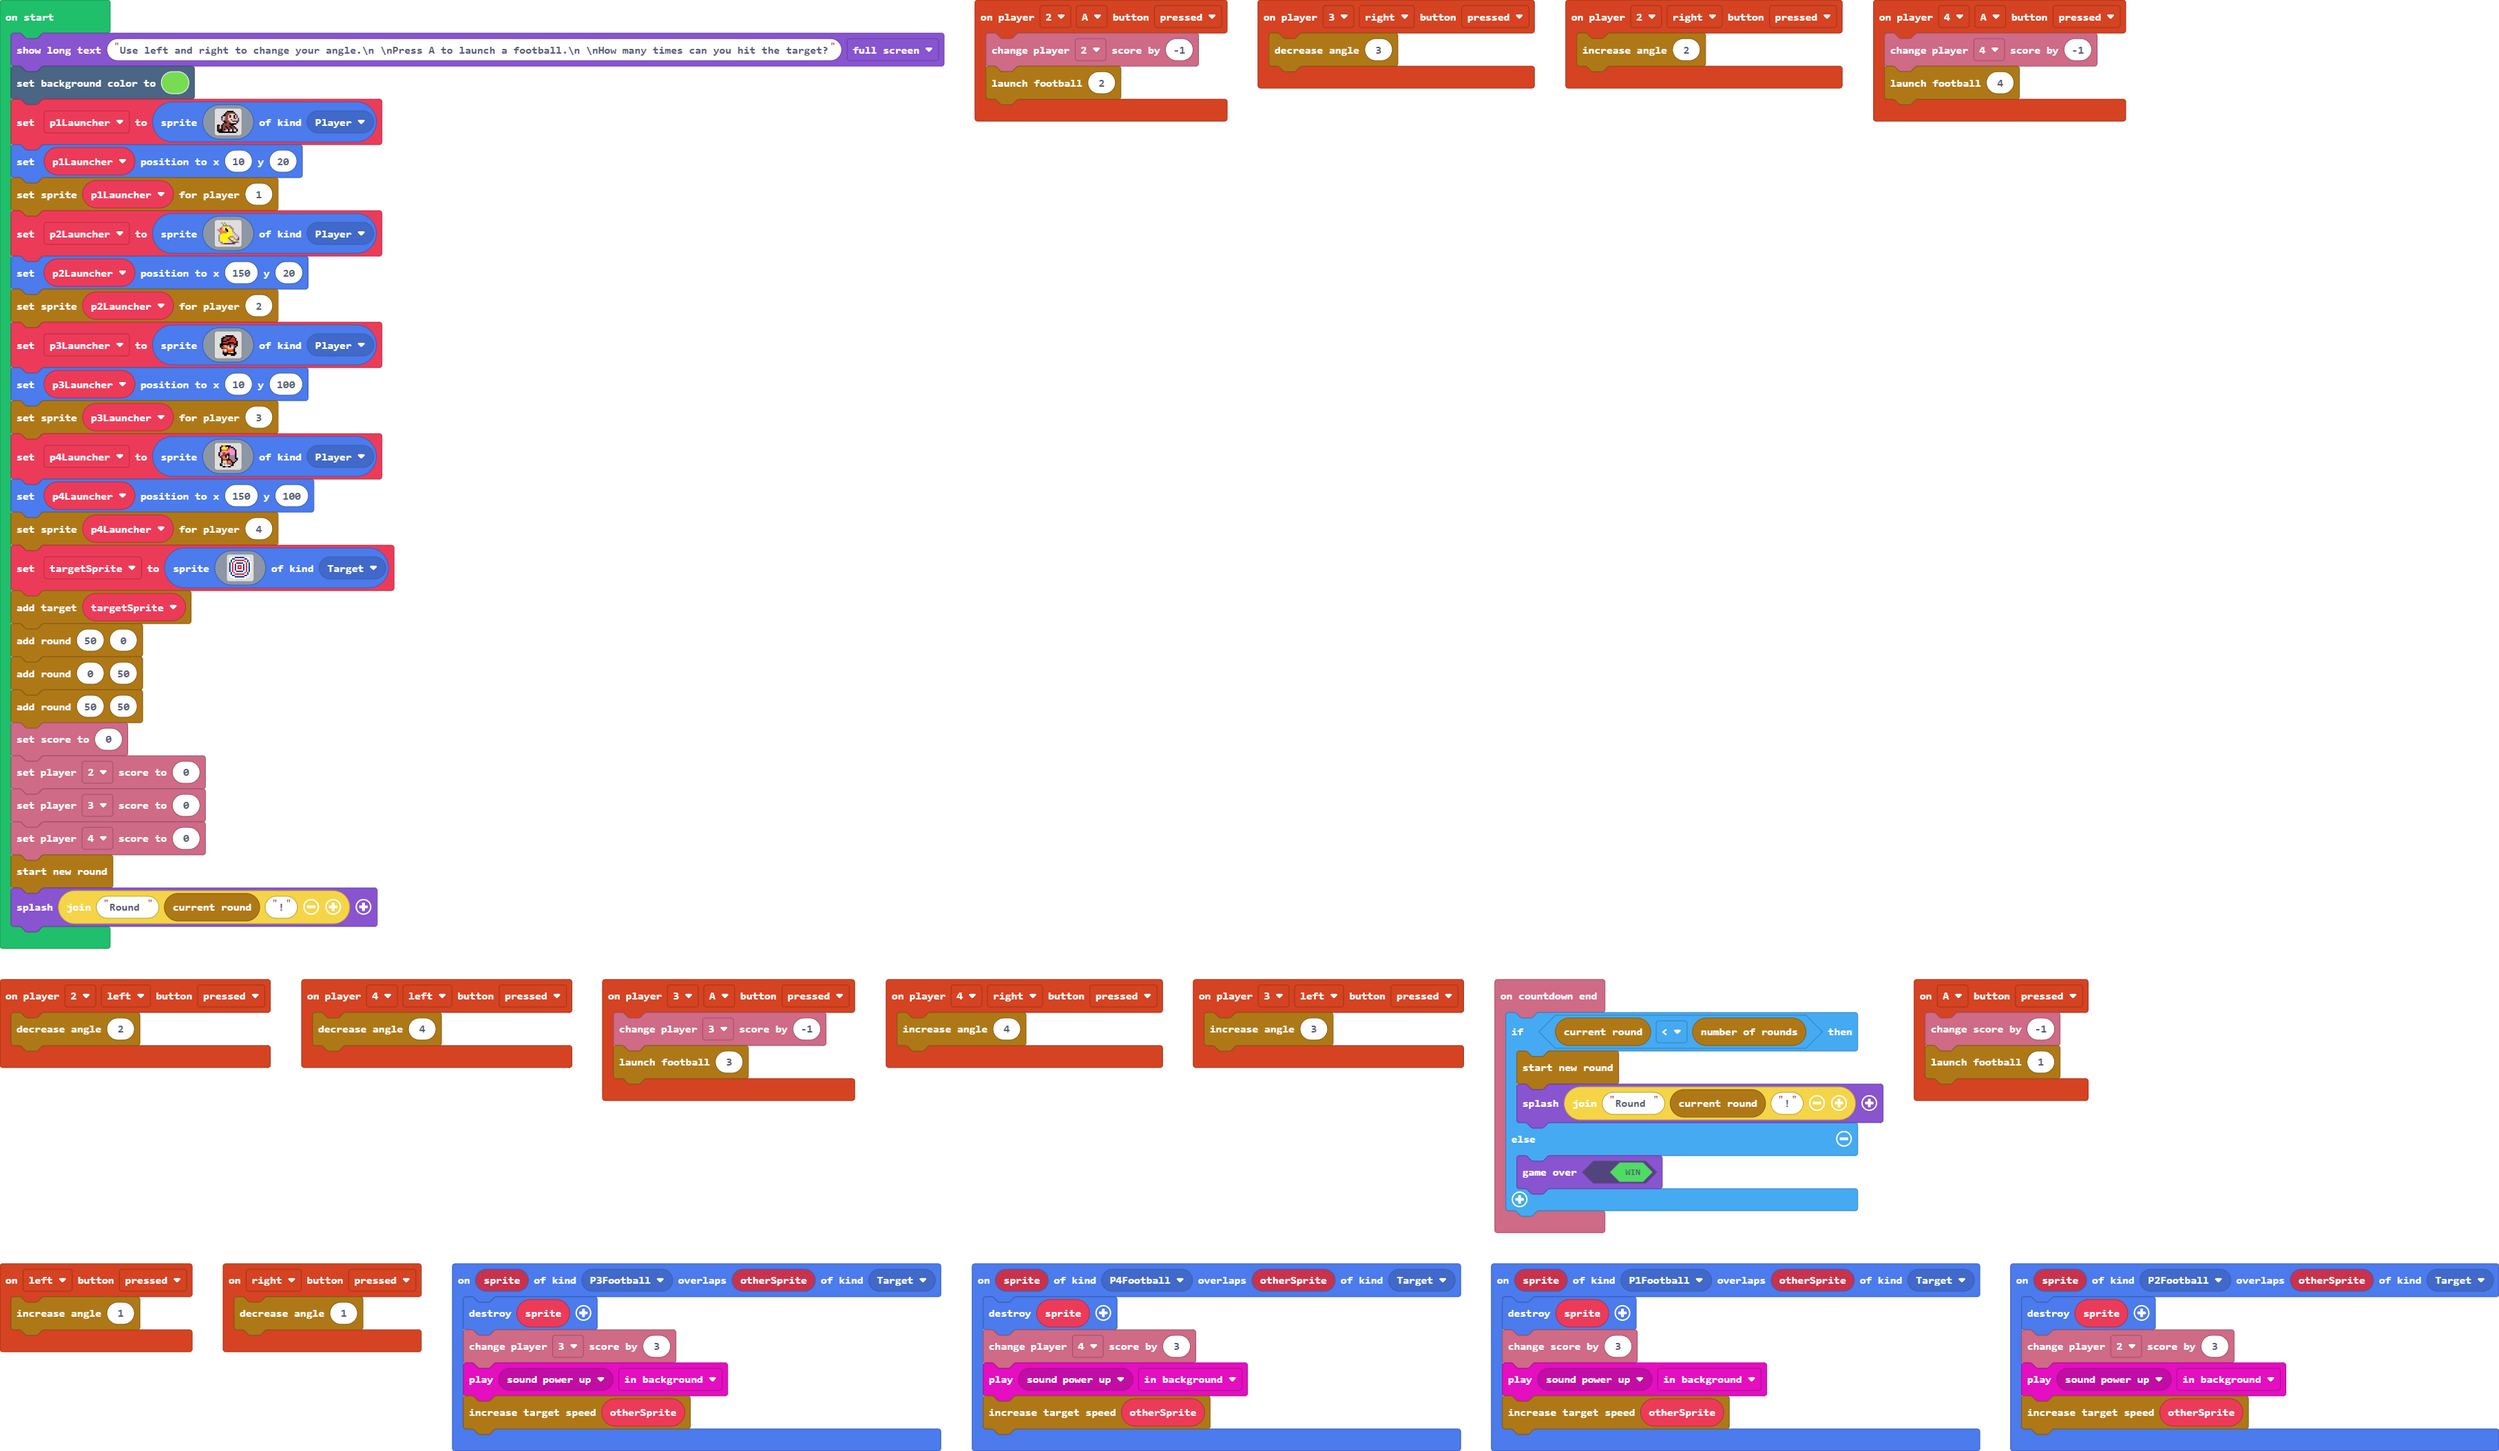
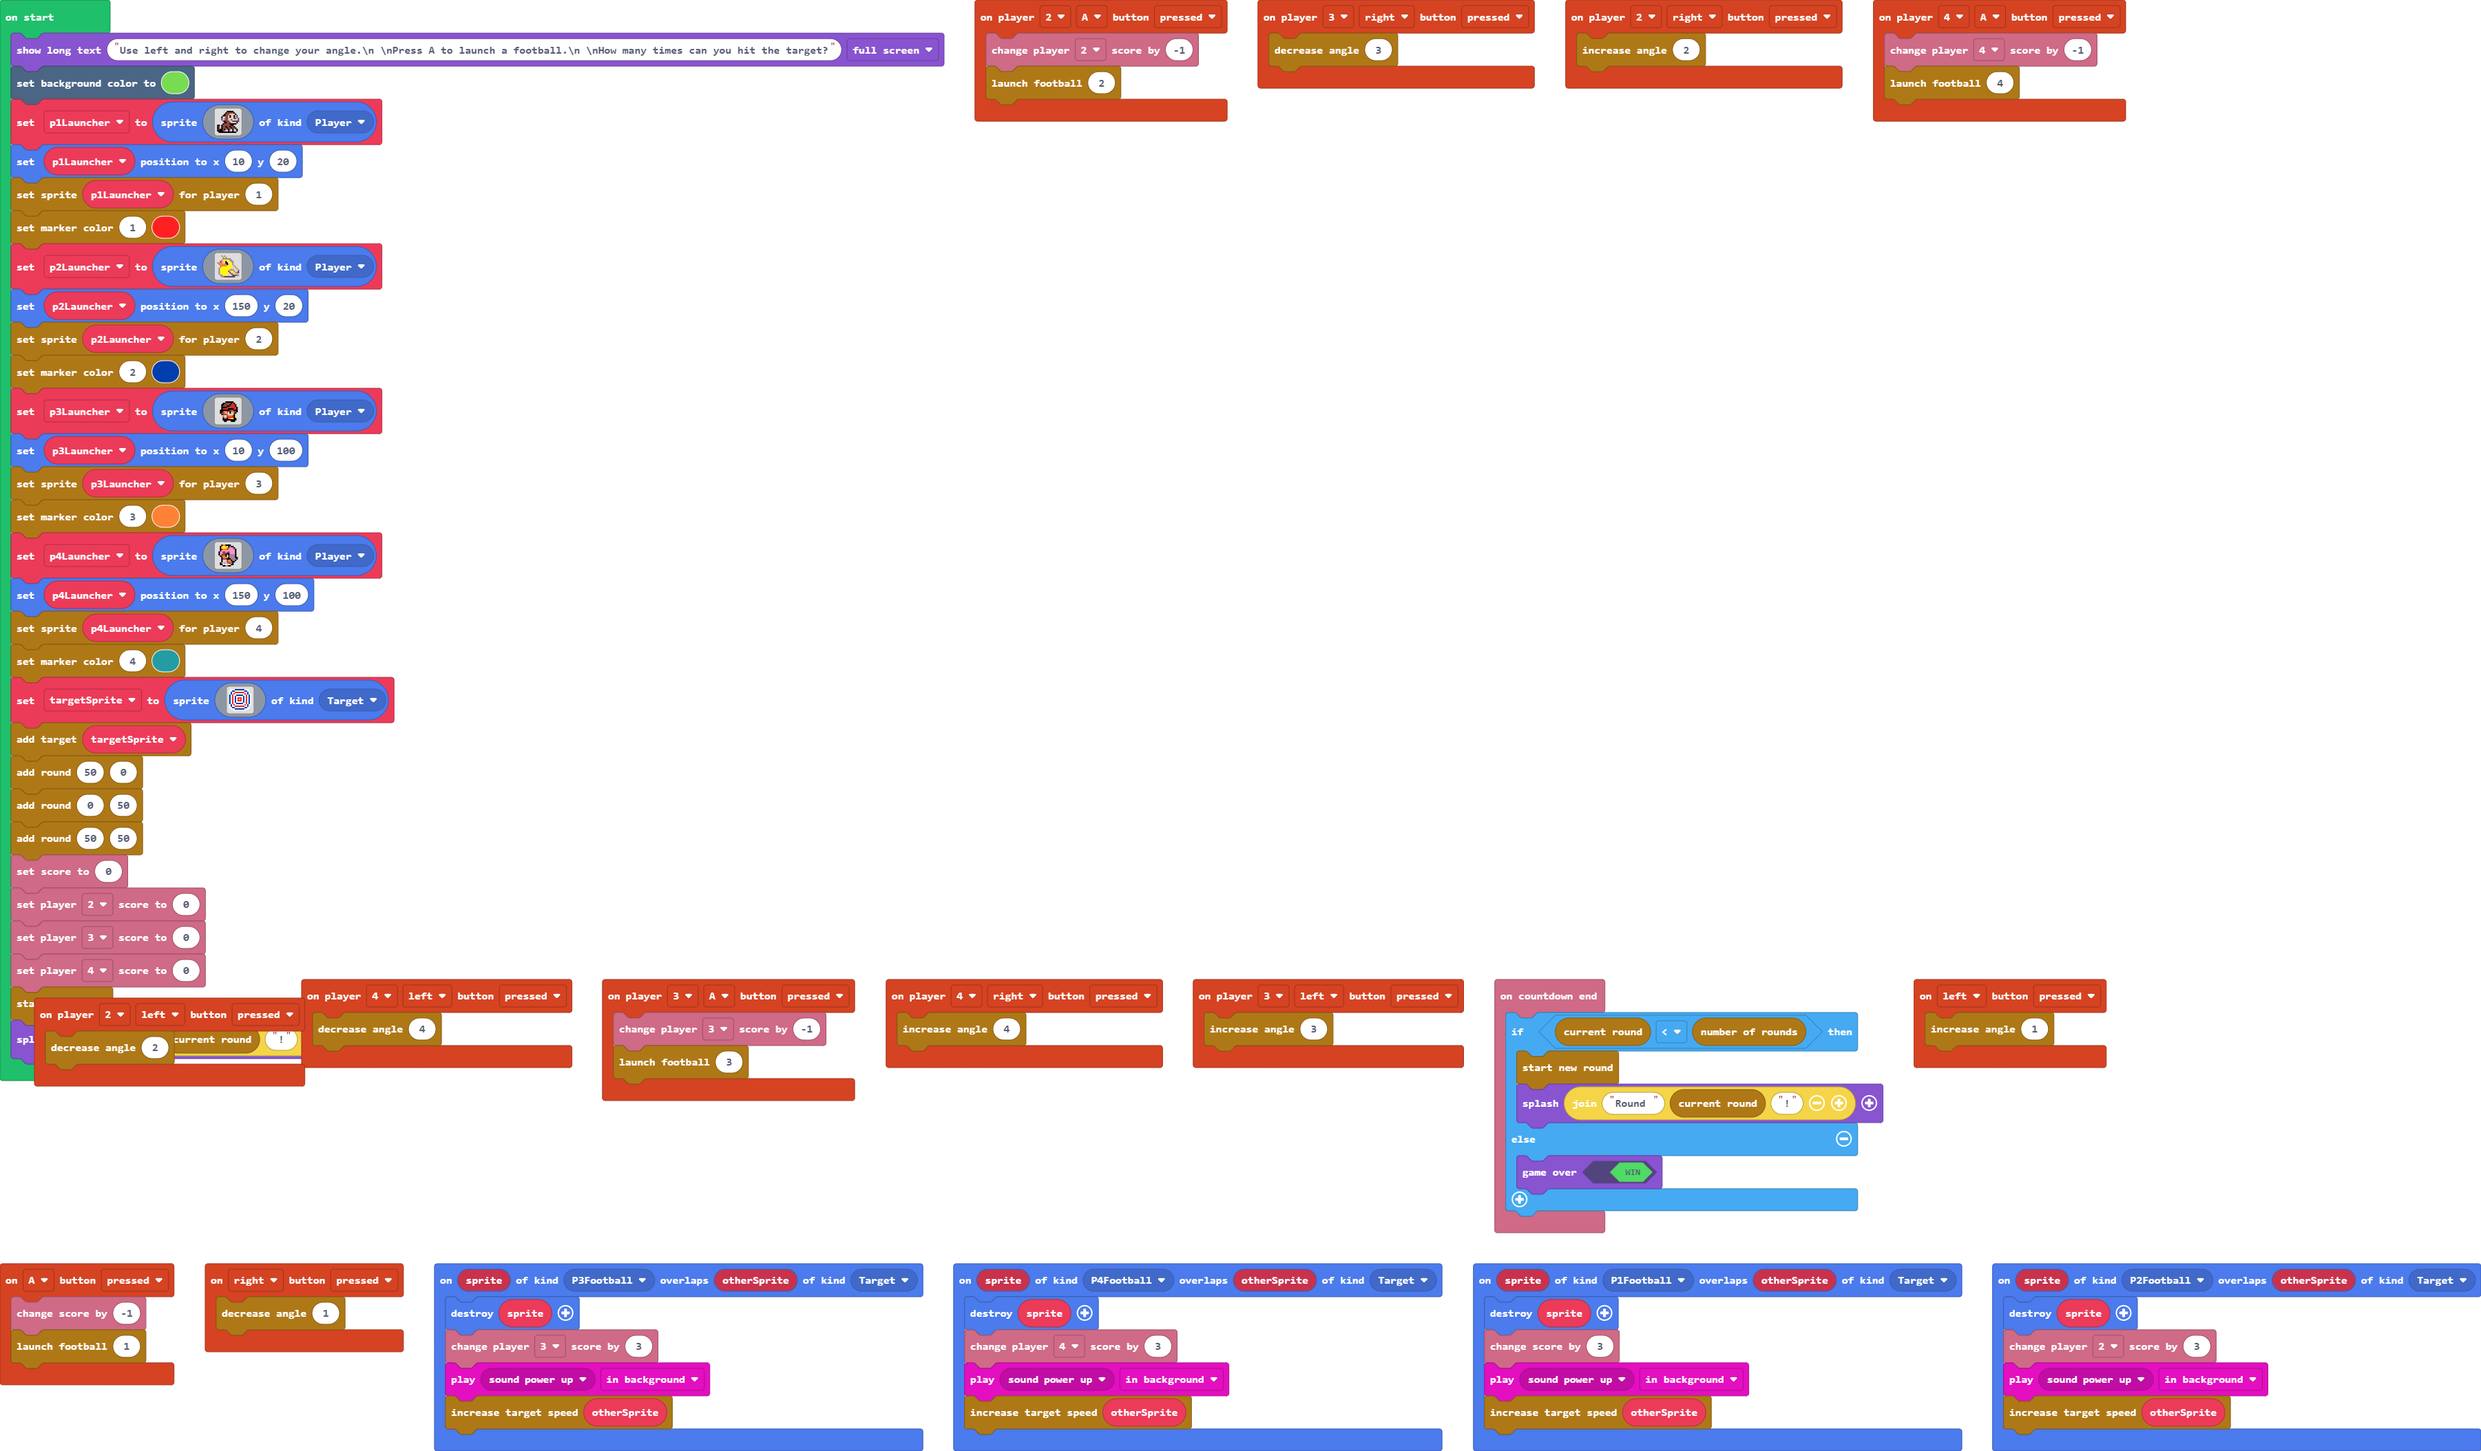
Add custom marker colors.

diff --git a/launcher.ts b/launcher.ts
@@ -29,7 +29,6 @@ interface Point {
 namespace launcher {
     const DIRECTION_DIVISIONS: number = 8
     const MARKER_FILL_COLOR: number = 1
-    const MARKER_BORDER_COLOR: number = 10
     const FOOTBALL_KINDS: number[] = [
         SpriteKind.P1Football,
         SpriteKind.P2Football,
@@ -46,6 +45,7 @@ namespace launcher {
     let targets: Sprite[] = []
     let roundLength: number = 30
     let targetSpeedup: number = 10
+    let markerColors: number[] = [10, 10, 10, 10, 10]
 
     //% block
     export function addRound(vx: number, vy: number): void {
@@ -66,7 +66,7 @@ namespace launcher {
     //% block
     //% player.defl=1
     export function decreaseAngle(player: number): void {
-        if (player < 0 || player > 4) {
+        if (player < 1 || player > 4) {
             return
         }
         if (launchers[player].direction > 0) {
@@ -78,7 +78,7 @@ namespace launcher {
     //% block
     //% player.defl=1
     export function launchFootball(player: number): void {
-        if (player < 0 || player > 4) {
+        if (player < 1 || player > 4) {
             // Probably should throw an error,
             // + but we'll be nice. :-)
             return
@@ -132,7 +132,7 @@ namespace launcher {
     //% block
     //% player.defl=1
     export function increaseAngle(player: number): void {
-        if (player < 0 || player > 4) {
+        if (player < 1 || player > 4) {
             return
         }
         if (launchers[player].direction < DIRECTION_DIVISIONS) {
@@ -171,13 +171,24 @@ namespace launcher {
         fbSpeed = speed
     }
 
+    //% block
+    //% player.defl=1
+    //% color.shadow=colorindexpicker
+    export function setMarkerColor(player: number, color: number): void {
+        if (player < 1 || player > 4) {
+            return
+        }
+        markerColors[player] = color
+        updateShadow(player)
+    }
+
     //% block="set sprite $sprite for player $player"
     //% player.defl=1
     export function setPlayerSprite(sprite: Sprite, player: number): void {
         if (needsInit) {
             init()
         }
-        if (player < 0 || player > 4) {
+        if (player < 1 || player > 4) {
             return
         }
         let p: FbLauncher = launchers[player]
@@ -287,6 +298,9 @@ namespace launcher {
             init()
             return
         }
+        if (player < 1 || player > 4) {
+            return
+        }
 
         let p: FbLauncher = launchers[player]
 
@@ -323,6 +337,7 @@ namespace launcher {
         // img.drawRect(0, 0, img.width, img.height, 1)
         let origin: Point = {x: 1, y: 1}
         let marker: Point = {x: 0, y: 0}
+        let color: number = markerColors[player]
         if (dir < 5) {
             marker.x = img.width - 3
             marker.y = Math.min(Math.max(Math.floor(
@@ -340,11 +355,19 @@ namespace launcher {
         if (p.invertY) {
             origin.y = img.width - 1
             marker.y = mid + mid - marker.y - 2 // mid - (marker.y - mid)
-            img.drawLine(origin.x, origin.y, marker.x, marker.y + 2, MARKER_BORDER_COLOR)
+            img.drawLine(origin.x, origin.y, marker.x, marker.y + 2, color)
+            img.drawLine(origin.x - 1, origin.y, marker.x - 1, marker.y + 2, color)
+            img.drawLine(origin.x + 1, origin.y, marker.x + 1, marker.y + 2, color)
+            img.drawLine(origin.x, origin.y + 1, marker.x, marker.y + 3, color)
+            img.drawLine(origin.x, origin.y - 1, marker.x, marker.y + 1, color)
         } else {
-            img.drawLine(origin.x, origin.y, marker.x, marker.y, MARKER_BORDER_COLOR)
+            img.drawLine(origin.x, origin.y, marker.x, marker.y, color)
+            img.drawLine(origin.x - 1, origin.y - 1, marker.x - 1, marker.y - 1, color)
+            img.drawLine(origin.x + 1, origin.y + 1, marker.x + 1, marker.y + 1, color)
+            img.drawLine(origin.x, origin.y - 1, marker.x, marker.y - 1, color)
+            img.drawLine(origin.x, origin.y + 1, marker.x, marker.y + 1, color)
         }
         img.drawRect(marker.x, marker.y, 2, 2, MARKER_FILL_COLOR)
-        img.drawRect(marker.x - 1, marker.y - 1, 4, 4, MARKER_BORDER_COLOR)
+        img.drawRect(marker.x - 1, marker.y - 1, 4, 4, color)
     }
 }

diff --git a/main.ts b/main.ts
@@ -1,9 +1,3 @@
-namespace SpriteKind {
-    export const FB1 = SpriteKind.create()
-    export const FB2 = SpriteKind.create()
-    export const FB3 = SpriteKind.create()
-    export const FB4 = SpriteKind.create()
-}
 controller.A.onEvent(ControllerButtonEvent.Pressed, function () {
     info.changeScoreBy(-1)
     launcher.launchFootball(1)
@@ -81,15 +75,19 @@ scene.setBackgroundColor(7)
 let p1Launcher = sprites.create(assets.image`p1_7`, SpriteKind.Player)
 p1Launcher.setPosition(10, 20)
 launcher.setPlayerSprite(p1Launcher, 1)
+launcher.setMarkerColor(1, 2)
 let p2Launcher = sprites.create(assets.image`p2_0`, SpriteKind.Player)
 p2Launcher.setPosition(150, 20)
 launcher.setPlayerSprite(p2Launcher, 2)
+launcher.setMarkerColor(2, 8)
 let p3Launcher = sprites.create(assets.image`p3_0`, SpriteKind.Player)
 p3Launcher.setPosition(10, 100)
 launcher.setPlayerSprite(p3Launcher, 3)
+launcher.setMarkerColor(3, 4)
 let p4Launcher = sprites.create(assets.image`p4_0`, SpriteKind.Player)
 p4Launcher.setPosition(150, 100)
 launcher.setPlayerSprite(p4Launcher, 4)
+launcher.setMarkerColor(4, 6)
 let targetSprite = sprites.create(assets.image`target`, SpriteKind.Target)
 launcher.addTarget(targetSprite)
 launcher.addRound(50, 0)
